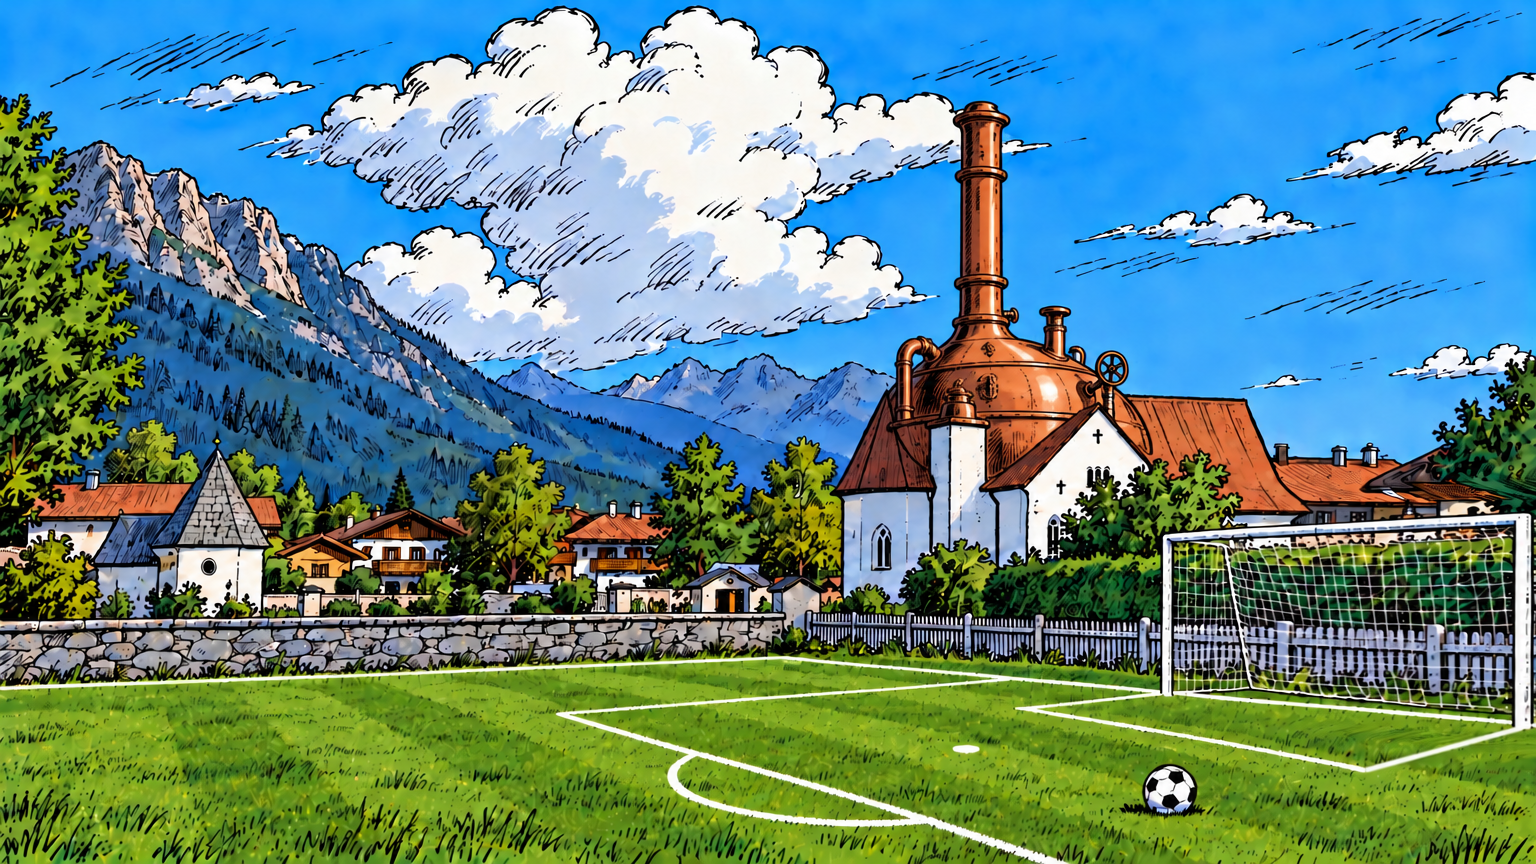
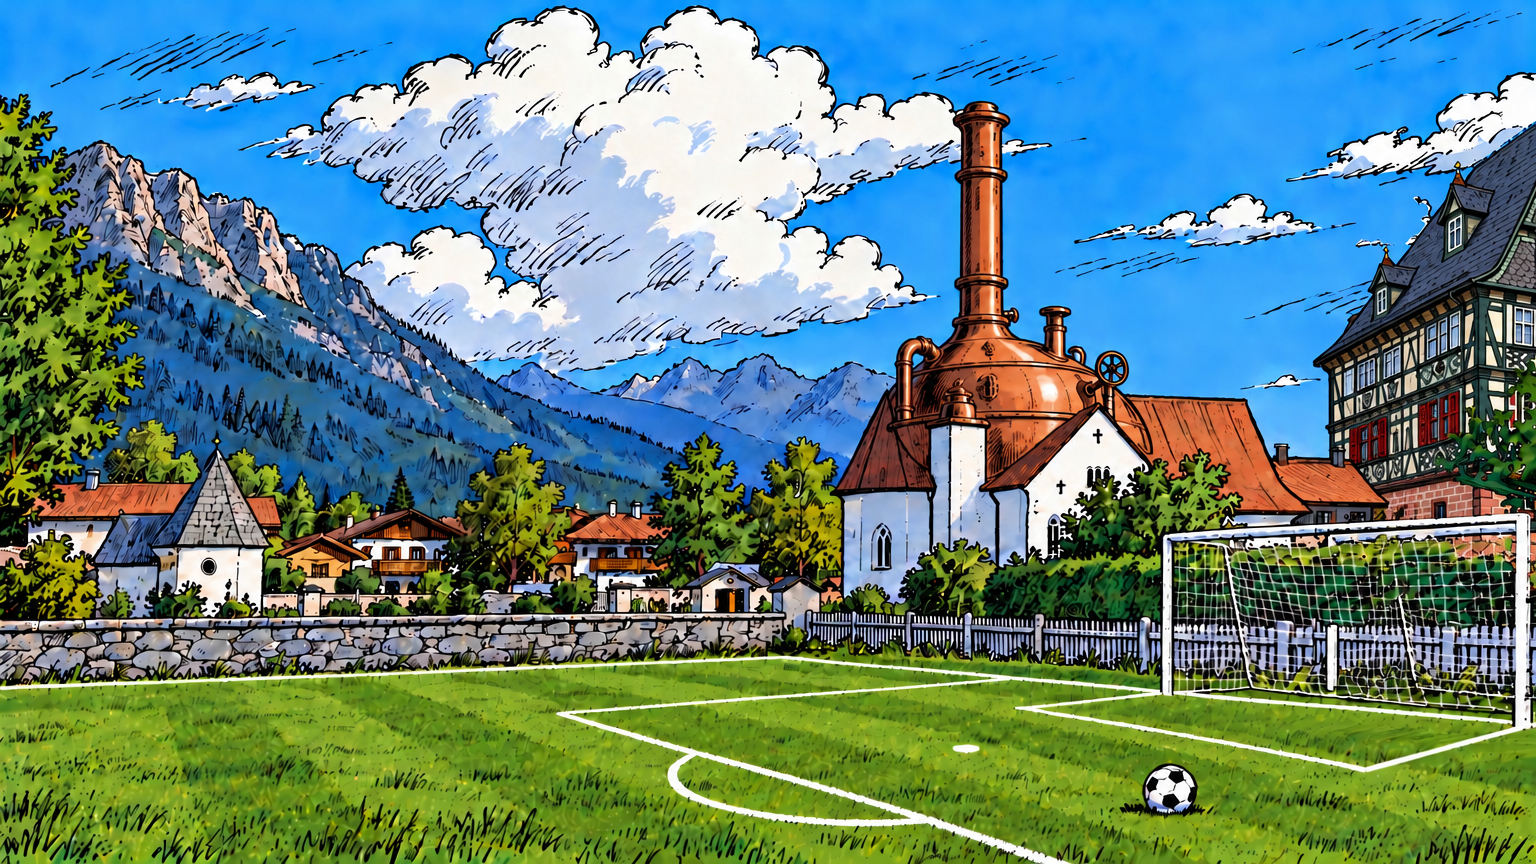
Base: drawn Pub is the Pub button, the pitch is Play a match (flag off the top row), Brewer off the base for now
Claude-Session: https://claude.ai/code/session_01GrbNTwVienMcpmsk1Pgq12

diff --git a/guides/DESIGNER_MANUAL.md b/guides/DESIGNER_MANUAL.md
@@ -4483,6 +4483,8 @@ and then its `Door Sound` (`door_open`, a wooden door creaking open)
 name off the bottom middle of its picture, e.g. the Club House's, so the
 Trophy Room hut in front of it keeps its own name.
 
+**The village buttons (23 Oct 2026)**: the village picture (assets/base/village.png) now has the drawn Pub right of the brewery. Like the brewery church, it is a button: Buildings.csv `Village Art` = `pub_inn` (assets/base/map/pub_inn.png = only its pixels, pub_inn_hover.png = lit up with a gold edge). The pitch is a button too: the new row `play_field` ("Play a match", Action `play:friendly`, Village Art `village_field`). Clicking the grass does what the Play a match flag did (the Match Maker), and while that row is on the base the flag is not on the top row. The pieces are made by /mnt/project-files/art_tool/base/village_buttons/make_pieces.py. The Brewer visitor is off the base for now: his Visitors.csv `Requires` is `flag:brewer_on_base`; put `unlocked:Brewery` back to bring him back. Check: tools/village_buttons_shot.gd.
+
 **On Base (Buildings.csv, 23 Oct 2026)**: write `no` and that building is not drawn on the base, but it still exists (its key, window, unlocks and Club House sale all still work). Blank = drawn. The Traveling Tavern is `no` for now (Anthony's ask); empty the cell to bring the wagon back.
 
 **Heatwave is off the base for now** (23 Oct 2026): his Visitors.csv `Requires` is `flag:heatwave_on_base`, a flag nothing sets, so he is not drawn. Visitors still work as before. Empty that cell to bring him back.
